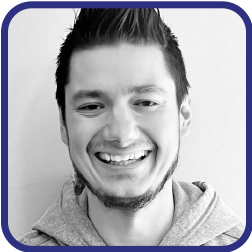
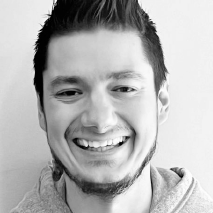
Add files via upload

diff --git a/index.html b/index.html
@@ -54,7 +54,7 @@
                             </li>
                             <span class="header__line">|</span>
                             <li class="header__link-item">
-                                <a class="header__link" href="#nft">NFT Shop</a>
+                                <a class="header__link" href="#nft">DApp</a>
                             </li>
                         </ul>
 
@@ -171,7 +171,7 @@
         </div>
     </section>
 
-    <section class="ecos">
+   <section class="ecos">
 
         <div class="ecos__join">
             <p class="ecos__mark">!</p>
@@ -229,7 +229,7 @@
             </div>
 
         </div>
-    </section>
+    </section> 
 
     <section class="why" id="why">
 
@@ -264,8 +264,7 @@
                     </div>
                     <div class="why__table-card-text-container">
                         <h3 class="why__table-card-title">Governance</h3>
-                        <p class="why__table-card-text">Governance token, governance voting and compounding for
-                            community members.</p>
+                        <p class="why__table-card-text">Every NFT holder is an Initial Investor in the project, which means he is a Stockholder of the project.</p>
                     </div>
                 </div>
 
@@ -332,13 +331,13 @@
         <div class="roadmap__content">
 
             <h2 class="roadmap__title">Roadmap Keypoints</h2>
-            <p class="roadmap__text">Detailed Roadmap to be released after launch of Phase 1</p>
+            <p class="roadmap__text">Detailed Roadmap to be released after launch of Genesis NFT collection</p>
 
             <div class="roadmap__table-wrapper">
                 <div class="roadmap__table">
                     <div class="roadmap__table-card">
                         <img class="roadmap__table-card-img" src="./images/spade-flat.png" alt="spade" />
-                        <h3 class="roadmap__table-card-title">DeFi Staking<br>and BTC Mining<br>Platform</h3>
+                        <h3 class="roadmap__table-card-title">NFT Minting<br>and BTC<br> Mining Platform</h3>
                     </div>
                     <div class="roadmap__table-card">
                         <img class="roadmap__table-card-img" src="./images/NFT-flat.png" alt="nft" />
@@ -346,7 +345,7 @@
                     </div>
                     <div class="roadmap__table-card">
                         <img class="roadmap__table-card-img" src="./images/townhall-flat.png" alt="townhall" />
-                        <h3 class="roadmap__table-card-title">ICO Governance<br>Token and Platform</h3>
+                        <h3 class="roadmap__table-card-title">Liquid Staking Token<br>and staking Platform</h3>
                     </div>
                     <div class="roadmap__table-card">
                         <img class="roadmap__table-card-img" src="./images/b2b-flat.png" alt="b2b" />
@@ -373,7 +372,7 @@
                 <div class="team__table">
 
                     <div class="team__table-card">
-                        <img class="team__table-card-img" src="./images/antonio-photo.png" alt="CEO" />
+                        <img class="team__table-card-img" src="./images/antonio-photo.jpeg" alt="CEO" />
                         <h3 class="team__table-card-title">Antonio Grego<br>CEO</h3>
                         <p class="team__table-card-text">CBDO Ecos mining, C level roles<br>in EdTech Industry (Foxford,
                             Novakid)</p>
